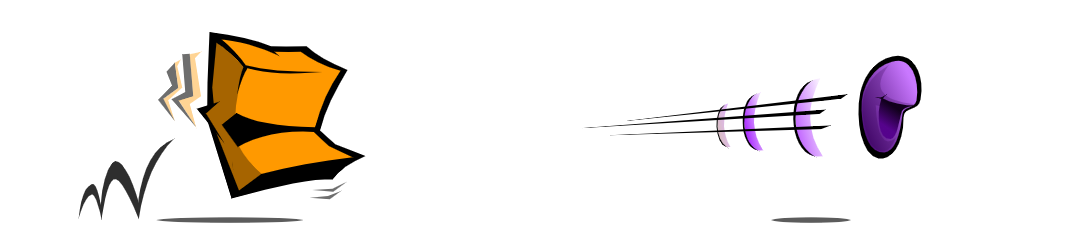
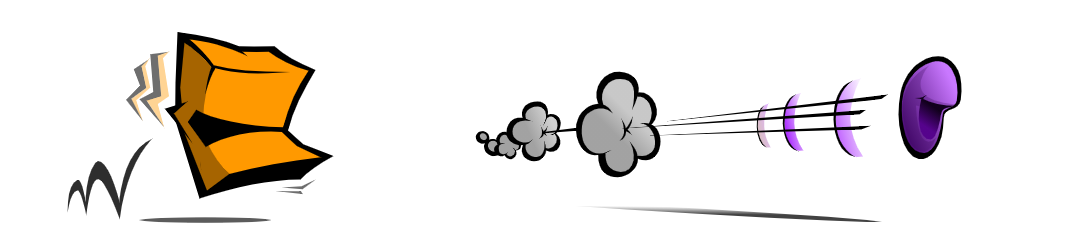
updating some filters and images of specific hunts

Changed region(s): [[0.0618, 0.1111, 0.3399, 0.8889], [0.4326, 0.2222, 0.927, 0.7222], [0.5562, 0.8056, 0.8343, 0.8889]]

diff --git a/index.html b/index.html
@@ -116,17 +116,45 @@ hr {
 }
 
 img {
-    border: 2px solid black;
+    border: 2px solid hsl(120, 100%, 15%);
     height: 100px;
     width: calc(100% - 2*20px);
-    margin: 0px 20px 4px 20px;
-    background-color: green;
+    margin: 0px 20px 8px 20px;
+    background-color: hsl(120, 100%, 25%);
+    filter: url("#DF");
+    xxxfilter: grayscale(80%);
+    overflow: hidden;
 }
 
+svg {
+    display: none;
+}
 </style>
 
 </head>
 
+<svg>
+  <defs>
+    <filter id="DF">
+      <feMorphology
+        in="SourceGraphic"
+        operator="erode"
+        radius="1"
+        result="sketchImage"
+      />
+      <feTurbulence type="fractalNoise" baseFrequency="12.5" numOctaves="2" result="noisy" />
+      <feDisplacementMap
+        in="SourceGraphic"
+        scale="4"
+        xChannelSelector="R"
+        yChannelSelector="G"
+        result="disMap"
+      />
+      <!--feBlend in="disMap" in2="noisy" mode="multiply" /-->
+    </filter>
+  </defs>
+</svg>
+         
 <body>
 <div id="holder">
     
@@ -199,7 +227,7 @@ img {
         were in the scene, I could never catch anyone.
     </div>
     
-    <img>
+    <img src="migs/hunt02.png" style="height:auto;">
     
     <div class="C">
         That seems kind of obvious: in an open field,
@@ -212,7 +240,7 @@ img {
     <div class="hunt">
     <div class="Q">
         Things were reversed for the next hunt. This
-        time <span class="emp">I</span>
+        time <span class="emp">eYe</span>
         had a much higher top speed than the prey.
     </div>
     
@@ -255,7 +283,7 @@ img {
         up to any of the prey circles.
         <br><br>
         But then something
-        happened.
+        happened...
     </div>
     
     <div class="C">
@@ -288,7 +316,7 @@ img {
     
     <div class="C">
          A lot of times, I turned around from a wall and
-         RIGHT into the waiting jaws of the hunting square.
+         RIGHT INTO the waiting jaws of the hunting square.
     </div>
     
     <div class="Q">
@@ -296,9 +324,10 @@ img {
         way because I was lagging behind due to my slower
         speed.
         <br><br>
-        To a lot of people, it appeared as though
-        I was running my prey towards an obstacle, and then
-        waiting for the catch, <i>on purpose.</i>
+        To a lot of people, it <b>appeared</b> as though
+        I was intentionally running my prey towards an
+        obstacle, and then waiting for the catch,
+        <i>on purpose.</i>
         <br><br>
         That's what they call an
         <span class="emp">EMERGENT</span> property!
